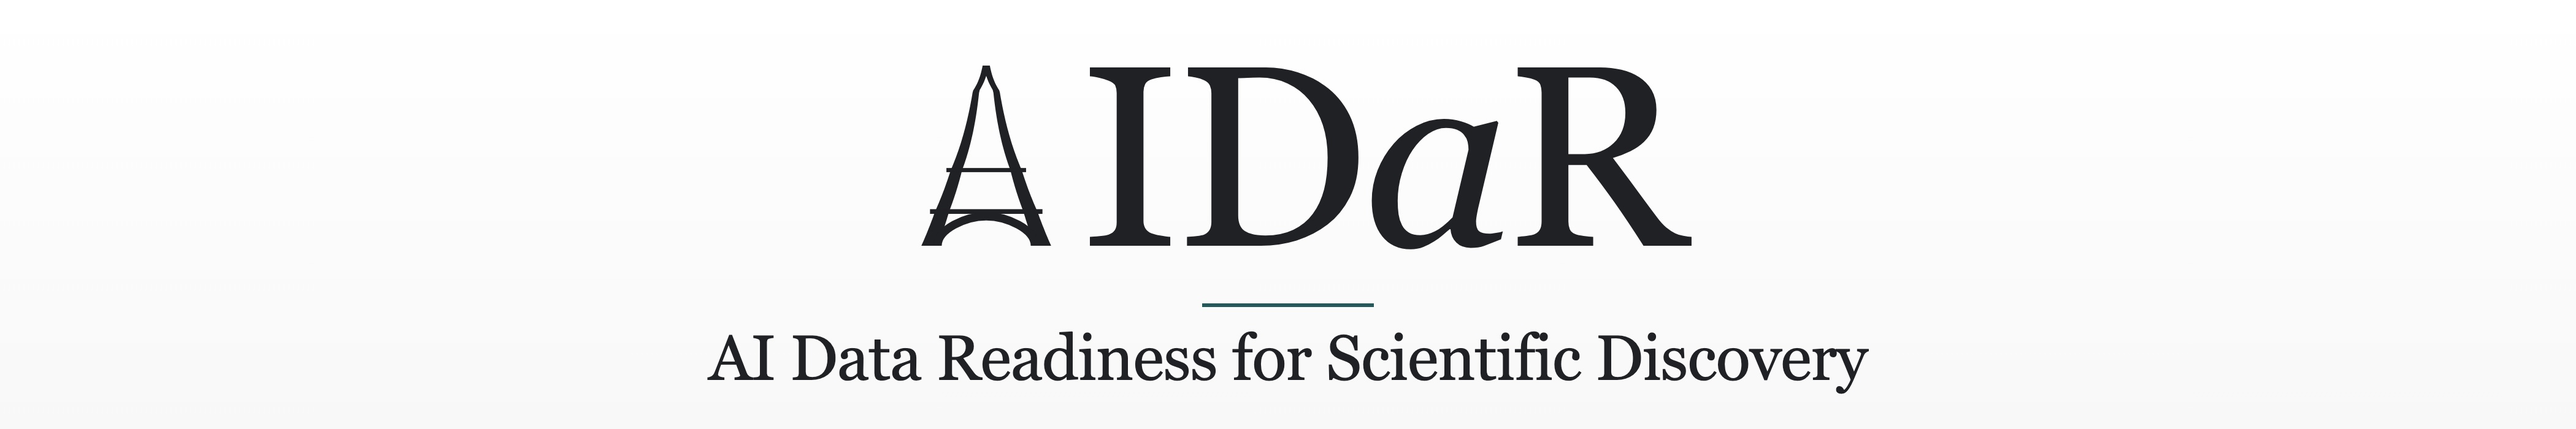
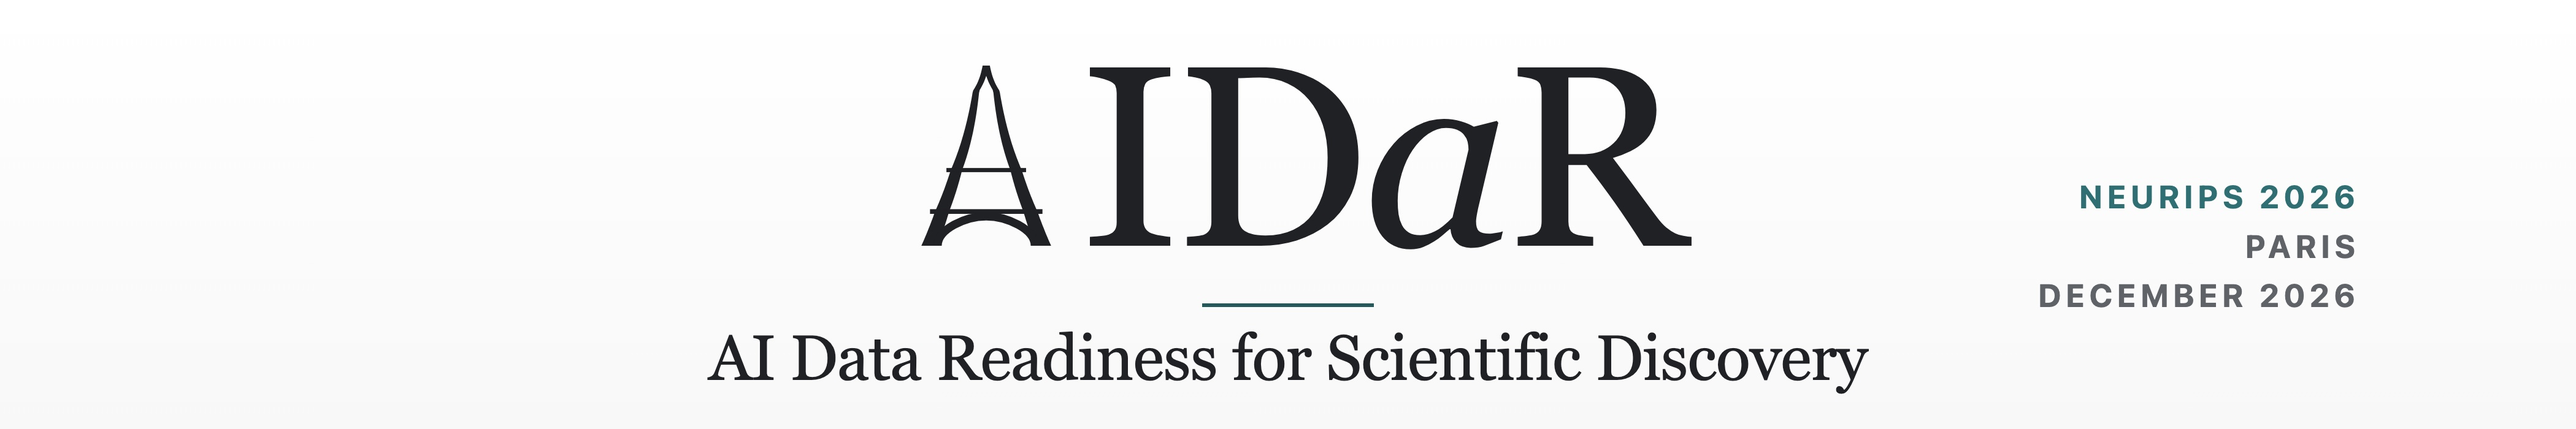
feat: put the place and date back on the cover, in the flank
Removing the line bought the wordmark its size, but Paris and the date are
worth carrying. They did not need to come out of the wordmark's budget: the
core lockup spans 45 per cent of a 6:1 cover and the rest was empty, so the
room was always horizontal rather than vertical.

Set right, not left. The Page logo is drawn over the cover at the left and
is about 150px across — a left-hand flank was tried and vanished behind it
completely. On the right it clears the core by 140px, and the logo and the
flank now bracket the centred wordmark.

Three short lines rather than two long ones: "NeurIPS 2026 Workshop" on one
line overlapped the tagline by 35px and pushing it further out would have
crowded the trim edge, which LinkedIn asks you not to do.

Wordmark stays at 210px.

Changed region(s): [[0.7798, 0.66, 0.9357, 0.72], [0.811, 0.42, 0.9357, 0.51], [0.8733, 0.54, 0.9357, 0.6]]

diff --git a/2026/assets/brand/banner.html b/2026/assets/brand/banner.html
@@ -9,9 +9,12 @@
      one centred lockup inside the middle ~70% of the width, and the corners
      carry nothing — a crop from any side eats background first.
 
-     The workshop/place/date line that used to sit under the tagline is gone:
-     LinkedIn prints exactly that beneath the cover, so on this surface it only
-     cost the wordmark its size.
+     The workshop, place and date sit in the flanks rather than under the
+     tagline. Stacked, they cost the wordmark its size; out at the sides they
+     cost nothing, because the core lockup only spans 45% of a 6:1 cover and the
+     rest was empty. They are also the expendable half — a narrow crop eats the
+     flanks first and leaves the wordmark and the tagline, which is the right
+     way round.
 
      Edit here, re-run build_og.sh, never hand-edit the JPEG. -->
 <html lang="en">
@@ -32,6 +35,7 @@
       html, body { margin: 0; padding: 0; }
 
       body {
+        position: relative;
         display: flex;
         align-items: center;
         justify-content: center;
@@ -103,11 +107,29 @@
         text-transform: uppercase;
       }
 
-      .details .sep { color: var(--line); margin: 0 10px; }
-      .details .place { color: var(--muted); }
+      /* Secondary information, out where the width is going spare. */
+      .flank {
+        position: absolute;
+        top: 50%;
+        transform: translateY(-50%);
+        font-family: ui-sans-serif, system-ui, -apple-system, BlinkMacSystemFont, "Segoe UI", sans-serif;
+        font-size: 26px;
+        font-weight: 700;
+        line-height: 1.55;
+        letter-spacing: 0.15em;
+        text-transform: uppercase;
+      }
+
+      .flank-right { right: 176px; text-align: right; }
+
+      .flank .lead { color: var(--accent); display: block; }
+      .flank .sub { color: var(--muted); display: block; }
     </style>
   </head>
   <body>
+    <p class="flank flank-right">
+      <span class="lead">NeurIPS 2026</span><span class="sub">Paris</span><span class="sub">December 2026</span>
+    </p>
     <div class="lockup">
       <h1 class="wordmark">
         <span class="tower"><img src="aidar-a.svg" alt=""></span>ID<span class="lower">a</span>R

diff --git a/2026/assets/brand/README.md b/2026/assets/brand/README.md
@@ -107,5 +107,9 @@ From LinkedIn's own image-specifications article, not the numbers blogs repeat:
 | --- | --- |
 | Page cover | 4200 × 700, JPEG preferred, 3MB cap |
 | Page logo, as drawn | ~150px on desktop, ~56px in feeds |
+
+The logo is drawn **over** the cover, at the left. Anything placed in the left
+fifth of a cover is invisible on desktop — a left-hand flank was tried and
+disappeared entirely behind it.
 | Page logo | 400 × 400 recommended, 268 × 268 minimum |
 | Share card | 1200 × 630, rendered at 2× |
